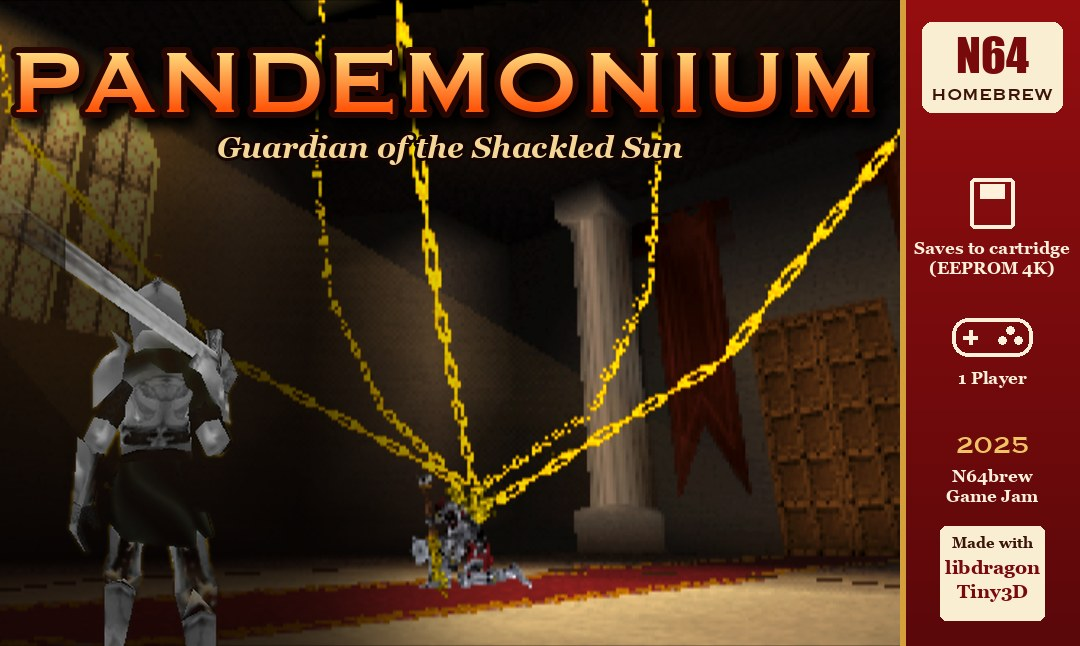
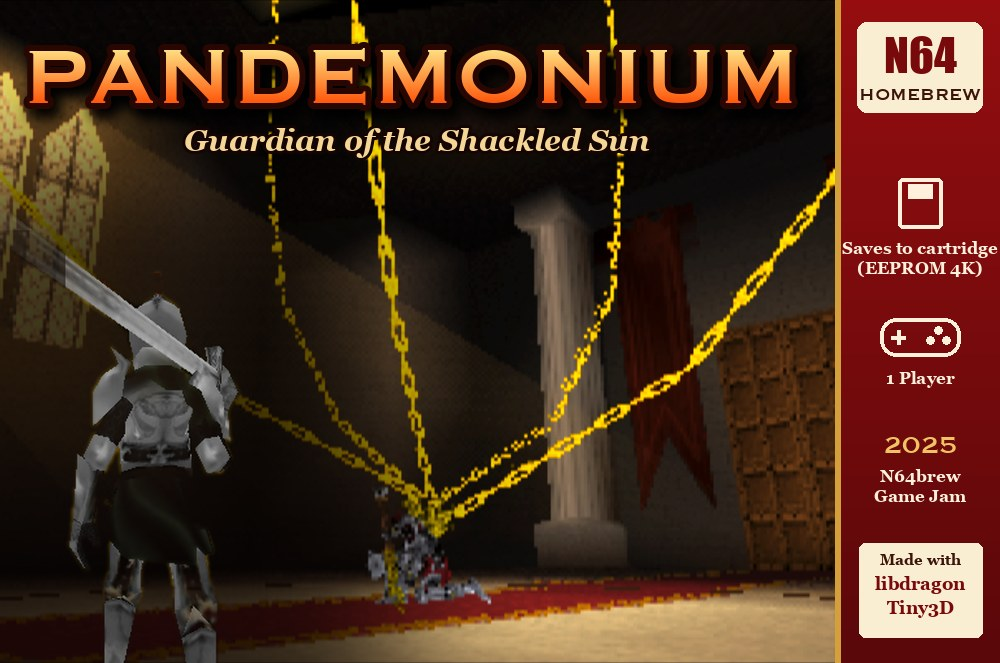
Cover art: N64 box proportions (1000x663)

diff --git a/README.md b/README.md
@@ -1,6 +1,6 @@
 # Pandemonium
 
-<img width="1080" alt="Pandemonium cover art" src="metadata/cover.jpg">
+<img width="1000" alt="Pandemonium cover art" src="metadata/cover.jpg">
 
 ## Story
 A century long darkness has been cast on the land by the Demon King. The king is guarded by knights, tormented and broken. You are one of them, cast into setvitude, forced to bend to the kings will. Pandemonium is an original dark-fantasy souls game inspired by Elden Ring.
